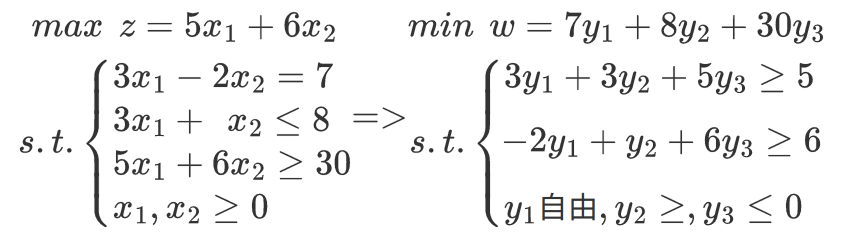
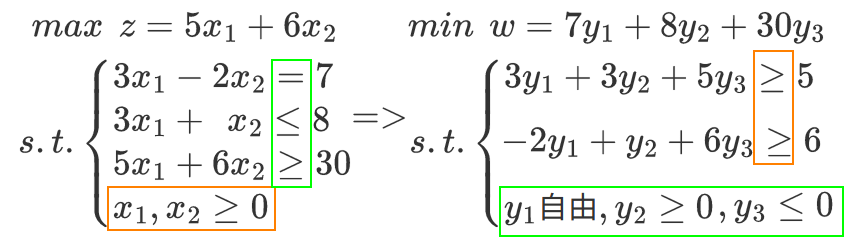
CorporateFinance

diff --git a/Books/Others/CorporateFinance.md b/Books/Others/CorporateFinance.md
@@ -24,14 +24,15 @@
 | 年金终值系数 | (S/A, i ,n) | S = A (S/A, i, n) |
 | 年金现值系数 | (P/A, i, n) | P = A (P/A, i, n) |
 
-<details>
-    <summary>现有本金2000元，年利率为8%，每年计息一次，到期一次还本付息，则第5年末的本利和是多少？</summary>
-    S = P(P/S, i, n) = 2000(S/P, 8%, 5)
-</details>
 
 - 递延年金现值 P = A (P/A, i, n)(P/S, i, m)，先求出n期的年金现值，再求出m期的复利现值
 
 <img src="../../pictures/CorporateFinance-递延年金.drawio.svg" width="500"/> 
+
+<details>
+    <summary>现有本金2000元，年利率为8%，每年计息一次，到期一次还本付息，则第5年末的本利和是多少？</summary>
+    S = P(P/S, i, n) = 2000(S/P, 8%, 5)
+</details>
 
  <details>
      <summary>假设企业按10%的年利率取得贷款100 000元，要求在6年内每年年末等额偿还，则每年的偿付金额应为多少元？</summary>
@@ -42,14 +43,27 @@
     <summary>有一项现金，前3年无流入，后5年每年年末流入500万元，年利率为10%，其现值为多少？</summary>
     P = A(P/A, i, n)(P/S, i, m) = 500(P/A, 10%, 5)(P/S, 10%, 3)
 </details>
+
 ### 债券估价
 
+- 债券的理论价格/现价（P）、市场利率/必要报酬率（i）、债券的面值（F）、债券的票面利率（r）
+
+|债券类型|公式|
+|--|--|
+|附息债券的估价|利息支付次数（n）<br /><img src="../../pictures/20231127235150.png" width="240"/>|
+|一次还本付息债券的估价|持有剩余期间的期数（n）、整个计息期间的期数（m），新发行债券m=n<br /><img src="../../pictures/20231127234441.png" width="150"/>|
+|永久性债券的估价|类似于永续年金<br /><img src="../../pictures/20231127233440.png" width="90"/>|
+
 <details>
-    <summary>某公司拟于2014年4月1日购买一张</summary>
+    <summary>某公司拟于2014年4月1日购买一张面额1000元的债券，其票面利率为12%，每年4月1日计算并支付一次利息，并于5年后的3月31日到期。市场利率为10%，债券的市价为1080元，问是否值得购买该债券？</summary>
+    <img src="../../pictures/20231127235842.png" width="500"/><br/>
+    由上式计算，得到该债券的理论价值P=1075.84 &lt; 1080，不值得购买。
 </details>
 
 <details>
-    <summary>某债券面值1000元，</summary>
+    <summary>某债券面值1000元，期限10年，票面利率为10%，市场利率为8%，到期一次付息，如在发行时购买，多高的价格是可接受的？</summary>
+    <img src="../../pictures/20231128000359.png" width="400"/><br/>
+    由上式计算得到该债券的理论价值P=1201.4，即为可接受的最高价格。
 </details>
 
 ### 股票估价
@@ -74,14 +88,10 @@
     <summary>某公司必要报酬率为15%，第一年支付的股利为2元，股利的年增长率为11%，则股票的理论价格为多少？</summary>
     P = D<sub>1</sub> / (r - g) = 2 / (15% - 11%) 
 </details>
-
 <details>
     <summary>某公司目前普通股的每股股利为1.8元，公司预期以后的4年股利将以20%的比率增长，再往后则以8%的比率增长，投资者要求的报酬率为16%，请计算该普通股的每股理论价值。</summary>
+    <img src="../../pictures/20231128001117.png" width="660"/>
 </details>
-
-$$
-P = \sum^m_{t=1}\frac{D_0(1+g_1)^t}{(1+r)^t} + \frac{D_{m+1}}{(r-g_2)(1+r)^m} = \sum^{4}_{t=1}\frac{1.8(1+20\%)^t}{(1+16\%)^t} +\frac{D_{m+1}}{(16\% - 8\%)(1+20\%)^m}
-$$
 
 <details>
     <summary>某公司的普通股基年股利3元，估计股利年增长率为8%，期望收益率为15%，打算3年以后转让出去，估价转让价格为20元，试计算该普通股的理论价格。</summary>

diff --git a/Books/Mathematics/Operations.md b/Books/Mathematics/Operations.md
@@ -353,8 +353,10 @@
 <img src="../../pictures/20231124172940.png" width="350"/> 
 
 - 原问题的约束条件个数对应对偶问题的变量个数；原问题的变量个数对应对偶问题的约束条件个数。
+- 约束条件和对偶变量的等价变换：
 
-- 约束条件的等价变换：（1）等号对应的对偶变量自由；（2）不符合标准的约束条件对应的对偶变量需要变换符号。
+1. 原问题决策变量的约束（x自由）对应对偶问题约束条件的等式符号（=），而原问题约束条件的等式符号（=）对应对偶问题决策变量的约束（y自由）
+2. 若&le;和&ge;的方向符合原问题的规范（max &le;b，min &ge;b），则对应对偶问题的决策变量y&ge;0；否则y&le;0
 
 <img src="../../pictures/20231124183505.png" width="500"/> 
 
@@ -373,6 +375,12 @@
 ## 对偶单纯形法
 
 - 单纯形法是在可行域的顶点（基可行解）上进行搜索；而对偶单纯形法是在可行域的外部（非基可行解）进行搜索，也就是对偶问题可行域的顶点（基可行解）上搜索。
+
+1. 初始单纯形表（求极大问题）
+2. 若b列的数字都为非负，且检验数都非正，则已得到最优解；否则进入下一步
+3. 确定换出变量：
+4. 确定换入变量：
+5. 换基迭代，进入第2步
 
 ## 线性规划的敏感性分析
 

diff --git a/Books/Computer/DataLinkLayer.md b/Books/Computer/DataLinkLayer.md
@@ -232,7 +232,7 @@
 
 - 选择重传协议中的接收端所需的缓冲区的数目等于接收窗口的大小，要设置足够容量的缓冲区来暂存未按序但正确到达的帧，且不能接受超过接收窗口边界的序号的帧。
 
-1. 对滑动窗口协议而言，发送窗口尺寸范围 1 &le; W<sup>R</sup> &le; 2<sup>n</sup> -1；接收窗口的尺寸范围 W<sup>R</sup> + W<sup>T<sup> &le; 2<sup>n</sup>。（n为帧编号比特数）
+1. 对滑动窗口协议而言，发送窗口尺寸范围 1 &le; W<sup>R</sup> &le; 2<sup>n</sup> -1；接收窗口的尺寸范围 W<sup>R</sup> + W<sup>T</sup> &le; 2<sup>n</sup>。（n为帧编号比特数）
 
 2. 对SR协议而言，接收窗口与接收窗口长度都不固定，但为提高传输效率，通常设置滑动窗口长度等于接收窗口长度，即W<sub>Tmax</sub> = W<sub>Rmax</sub> = 2<sup>n-1</sup>。
 
